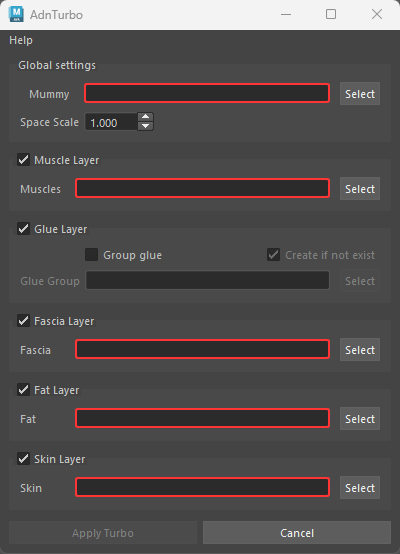
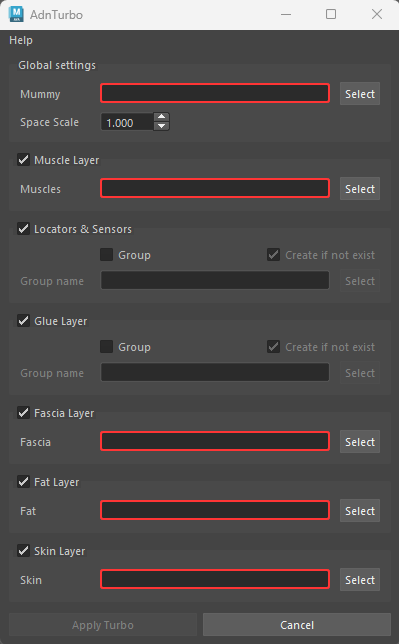
Updated turbo_tool.md page adding the locators-related options. Updated turbo UI screenshots.

diff --git a/docs/maya/tools/turbo_tool.md b/docs/maya/tools/turbo_tool.md
@@ -1,6 +1,6 @@
 # AdnTurbo
 
-The **AdnTurbo Tool** is a feature designed to automate the creation of an AdonisFX rig from scratch on a clean asset within Maya, from which fine-tuning and customization can proceed. It sequentially configures the following simulation layers:
+The **AdnTurbo Tool** is a feature designed to automate the creation of an AdonisFX rig from scratch on a clean asset within Maya, from which fine-tuning and customization can proceed. It sequentially configures the following layers:
 
 - **Muscle layer**
 - **Locators and Sensors**
@@ -28,14 +28,14 @@ Please, check this [section](#limitations) to know more about the current limita
 
 ## Requirements
 
-Each layer builds upon the previous one, this means that a specific layer will be disabled in the UI unless all the previous layer checkboxes have been checked.
+Each layer builds upon the previous one, this means that a specific layer will be disabled in the UI unless all the previous layer checkboxes have been checked. This rule applies to all the layers except for **Locators and Sensors**, which can be enabled or disabled without affecting the building of other layers.
 
 To configure at least the muscle layer, the following inputs are required:
 
 - **Mummy**: the skeletal mesh that drives the muscle simulation.
 - **Muscles**: one or more meshes representing muscles. The **Muscle Layer** checkbox must be enabled to provide this input.
 
-When these two inputs are provided and the following layers are unchecked, AdnTurbo will be ready to be executed.
+When these two inputs are provided and the following layers are unchecked, AdnTurbo will be ready to be executed. If the **Locators & Sensors** checkbox is checked, locators and sensors will be built for each muscle.
 
 To configure the downstream layers, the following inputs have to be provided:
 
@@ -56,7 +56,7 @@ Note that if any input is wrong or missing, the corresponding input text will tu
 
 2. Provide the inputs in the Turbo UI according to the layers that have to be built. Refer to Figure 3 to build all the layers.
 
-3. Additionally, to place the output glue geometry in a specific group, check the *Group Glue* option and provide a *Glue Group*. If the specified group does not exist, checking the *Create if not exist* option will make AdnTurbo to create it automatically.
+3. Additionally, to place the output glue geometry in a specific group, check the *Group* option and provide a *Group name* in the *Glue Layer* UI group. Likewise, to place locator and rivet nodes into their own group, use the same options in the counterpart group *Locators & Sensors*. If the specified group does not exist, checking the *Create if not exist* option will make AdnTurbo to create it automatically.
 
 4. If the scene contains AdonisFX nodes, a confirmation dialog will appear informing about it. Press *Yes* to automatically delete all AdonisFX nodes or *No* to cancel the execution.
 
@@ -69,7 +69,7 @@ Note that if any input is wrong or missing, the corresponding input text will tu
 
 <figure style="width:90%; margin-left:5%" markdown>
   ![Turbo Execution Completed](../images/turbo_script_02.png)
-  <figcaption><b>Figure 6</b>: All simulation layers configured after the execution: muscles, glue, fascia, fat and skin.</figcaption>
+  <figcaption><b>Figure 6</b>: All simulation layers configured after the execution: muscles, glue, fascia, fat and skin (including locators and sensors).</figcaption>
 </figure>
 
 > [!NOTE]
